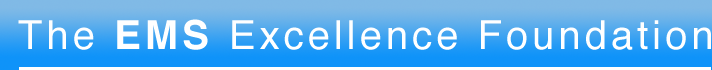
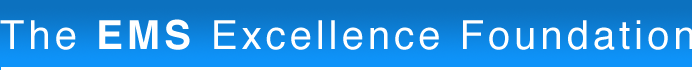
home page work

diff --git a/templates/base.html b/templates/base.html
@@ -20,26 +20,32 @@
 </head>
 <body>
 <div id="header">
+<div id="h1_container">
 {% if page == 'home' %}<h1 id="home"><span>EMS Census</span></h1>{% else %}<h1><a href="/"><span>EMS Census</span></a></h1>{% endif %}
+</div>
+<div id="navigation_container">
 <ul>
-    {% if page == 'about' %}<li id="about_the_foundation" class="current_page"><span>About the Foundation</span></li>{% else %}<li><a id="about_the_foundation" href="/about"><span>About the Foundation</span></a></li>{% endif %}
+    {% if page == 'about' %}<li id="about_the_foundation" class="current_page first"><span>About the Foundation</span></li>{% else %}<li class="first"><a id="about_the_foundation" href="/about"><span>About the Foundation</span></a></li>{% endif %}
     <li><a id="definition_of_excellence" href="http://definitionofexcellence.org"><span>Definition of Excellence</span></a></li>
     <li><a id="ems_census" href="http://emscensus.org"><span>EMS Census</span></a></li>
         <li><a id="ems_improvement" href="http://emsimprovement.org"><span>EMS Improvement</span></a></li>
 </ul>
+</div>
 </div>
 <div id="sidebar">
 {% block sidebar %}
 
 {% endblock %}
 </div>
+<div id="content_container">
 <div id="content">
 {% block content %}
 
 {% endblock %}
 </div>
-<div id="footer">
-Text is released under the <a rel="license" href="http://en.wikipedia.org/wiki/Wikipedia:Text_of_Creative_Commons_Attribution-ShareAlike_3.0_Unported_License">Creative Commons Attribution-ShareAlike License</a>.
+<div id="footer_container">
+<div id="footer">Text is released under the <a rel="license" href="http://en.wikipedia.org/wiki/Wikipedia:Text_of_Creative_Commons_Attribution-ShareAlike_3.0_Unported_License">Creative Commons Attribution-ShareAlike License</a>. Website source code is <a href="https://github.com/emsexcellencefoundation/EMS-Excellence-Foundation-Website">available on GitHub</a>.</div>
+</div>
 </div>
 <!-- Piwik --> 
 <script type="text/javascript"> 
@@ -62,5 +68,6 @@ piwikTracker.enableLinkTracking();
 </script><noscript><p><img src="http://stats.emsexcellence.org/piwik.php?idsite=1" style="border:0" alt=""/></p></noscript> 
 <!-- /Piwik -->
 <a href="mailto:team@emsexcellence.org" id="contact_info"><span>team@emsexcellence.org (206) 451-7294</span></a>
+<div id="onload_images"><img src="/media/images/h1_hover.png" /></div>
 </body>
 </html>

diff --git a/media/css/screen.css b/media/css/screen.css
@@ -3,6 +3,7 @@
 body
 {
 	background:#FFF url(../images/background.png) repeat-y top right;
+	text-align:center;
 	font:.9em/1.4 "Helvetica Neue",Arial,Helvetica,sans-serif;
 }
 
@@ -17,16 +18,31 @@ h1 a:link, h1 a:visited, #home
     display:block;
 	background:url(../images/h1.png) no-repeat;
 	height:71px;
+	width:702px;
+	margin:0 auto;
 }
 
 #home, h1 a:hover {
 background:url(../images/h1_hover.png) no-repeat;
 }
 
+#navigation_container, #h1_container {
+margin-right:200px;
+}
+
+#header ul {
+width:744px;
+margin:0 auto;
+}
+
 #header li
 {
 	float:left;
 	margin-left:20px;
+}
+
+#header li.first {
+margin-left:0
 }
 
 #header li a:link,#header li a:visited
@@ -78,7 +94,7 @@ height:54px;
 width:195px;
 background:url(../images/contact_info.png);
 top:0;
-left:745px;
+right:20px;
 position:absolute;
 }
 
@@ -92,6 +108,7 @@ position:absolute;
 	position:absolute;
 	right:0;
 	width:160px;
+	text-align:left;
 }
 
 #sidebar a:link, #sidebar a:visited,#sidebar li span {
@@ -106,7 +123,7 @@ font-weight:bold
 font-weight:bold
 }
 
-h1 span,#header a span
+h1 span,#header a span, #onload_images
 {
 	display:none;
 }
@@ -130,14 +147,24 @@ h3
 
 /** content **/
 
-#content, #footer {
+#footer_container {
 	padding:20px;
+}
+
+#content {
+padding:20px 0 10px 0;
+}
+
+#content_container {
+margin-right:200px;
+	background:url(../images/rounded_right_corner_next_to_header_and_sidebar.png) top right no-repeat;
 }
 
 #content
 {
-	background:url(../images/rounded_right_corner_next_to_header_and_sidebar.png) top right no-repeat;
-	margin-right:200px;
+	margin:0 auto;
+	text-align:left;
+	width:744px;
 }
 
 #content a:hover, #sidebar a:hover
@@ -146,8 +173,7 @@ h3
 }
 
 .chart {
-float:left;
-margin:0 10px 10px 0;
+margin-bottom:10px;
 }
 
 /** lists **/
@@ -165,8 +191,14 @@ font-family:serief;
 
 /** footer **/
 
-#footer {
+#footer_container {
 clear:left;
 border-top:1px solid #80bae6;
 font-size:.8em;
+}
+
+#footer {
+width:744px;
+text-align:left;
+margin:0 auto;
 }

diff --git a/templates/homepage.html b/templates/homepage.html
@@ -1,9 +1,9 @@
 {% extends "base.html" %}
 {% block title %}The EMS Excellence Foundation{% endblock %}
 {% block content %}
-<p>The <strong>Emergency Medical Services Excellence Foundation</strong> aims to {{ mission_statement }}.</p>
+<p>The <strong>Emergency Medical Services Excellence Foundation</strong> is defining excellence, collecting data, and empowering people to improve out-of-hospital emergency care.</p>
 <h3>In One Community Your Chance of Survival is 5% and 58% in Another</h3>
-<img src="/media/images/bystander_witnessed_shockable_cardiac_arrest_survival_rates.png" class="chart" />
-<p>In San Francisco, California when someone's heart stops beating it takes about two minutes to dispatch emergency services. In Seattle, Washington it takes about about forty seconds. San Francisco's survival rate is 5% and Seattle's rate is 45%. Every minute counts.</p>
+<div style="width:594px; margin:0 auto; text-align:center;font-size:.9em;"><img src="/media/images/bystander_witnessed_shockable_cardiac_arrest_survival_rates.png" class="chart" /><p style="text-align:left;font-family:serif;">Bystander-witnessed shockable cardiac arrest with presumed cardiac etiology <br/>See <a href="">list of sources and discussion of accuracy</a></p></div>
+<p>In San Francisco, California when someone's heart stops beating it takes about two minutes to dispatch emergency services. In Seattle, Washington it takes about about forty seconds. San Francisco's survival rate is 10% and Seattle's rate is 45%. Every minute counts.</p>
 <p>Altanta, Georgia used to save no one. After changing its dispatch procedures Altanta saved 33% of patients.</p>
 {% endblock %}

diff --git a/about/views.py b/about/views.py
@@ -3,21 +3,23 @@ import django
 from models import MissionStatement, Acknowledgement, OrganizationPerson
 
 def index(request):
+    mission_statement = MissionStatement.objects.all()[0].statement if MissionStatement.objects.all() else ''
     return render_to_response("homepage.html", {
         "ip_address": request.META['REMOTE_ADDR'],
         "django_version": django.VERSION,
         "meta": request.META.keys(),
         "page": 'home',
-        "mission_statement": MissionStatement.objects.all()[0].statement
+        "mission_statement": mission_statement
     })
 
 def about(request):
+    mission_statement = MissionStatement.objects.all()[0].statement if MissionStatement.objects.all() else ''
     return render_to_response("about.html", {
         "ip_address": request.META['REMOTE_ADDR'],
         "django_version": django.VERSION,
         "meta": request.META.keys(),
         "page": 'about',
-        "mission_statement": MissionStatement.objects.all()[0].statement
+        "mission_statement": mission_statement
     })
 
 def acknowledgements(request):
@@ -46,4 +48,37 @@ def our_people(request):
         "meta": request.META.keys(),
         "page": 'our people',
         "people": OrganizationPerson.objects.all()
+    })
+    
+
+def our_plan(request):
+    return render_to_response("our_plan.html", {
+        "ip_address": request.META['REMOTE_ADDR'],
+        "django_version": django.VERSION,
+        "meta": request.META.keys(),
+        "page": 'our plan',
+    })
+    
+def our_philosophy(request):
+    return render_to_response("our_philosophy.html", {
+        "ip_address": request.META['REMOTE_ADDR'],
+        "django_version": django.VERSION,
+        "meta": request.META.keys(),
+        "page": 'our philosophy',
+    })
+    
+def our_performance(request):
+    return render_to_response("our_performance.html", {
+        "ip_address": request.META['REMOTE_ADDR'],
+        "django_version": django.VERSION,
+        "meta": request.META.keys(),
+        "page": 'our performance',
+    })
+    
+def our_policies(request):
+    return render_to_response("our_policies.html", {
+        "ip_address": request.META['REMOTE_ADDR'],
+        "django_version": django.VERSION,
+        "meta": request.META.keys(),
+        "page": 'our policies',
     })

diff --git a/about/urls.py b/about/urls.py
@@ -5,4 +5,8 @@ urlpatterns = patterns('',
     (r'acknowledgements/$', "about.views.acknowledgements"),
     (r'acknowledgements/(?P<name>[\w,._-]+)/$', "about.views.person_acknowledged"),
     (r'people/$', "about.views.our_people"),
+    (r'plan/$', "about.views.our_plan"),
+    (r'philosophy/$', "about.views.our_philosophy"),
+    (r'performance/$', "about.views.our_performance"),
+    (r'policies/$', "about.views.our_policies"),
 )

diff --git a/about/models.py b/about/models.py
@@ -50,3 +50,4 @@ class OrganizationPositionFilling(models.Model):
     def __unicode__(self):
         return '%s%s: %s' % ('Interim ' if self.interim else '', self.position.position_name, self.person.persons_name)
     
+#class     
